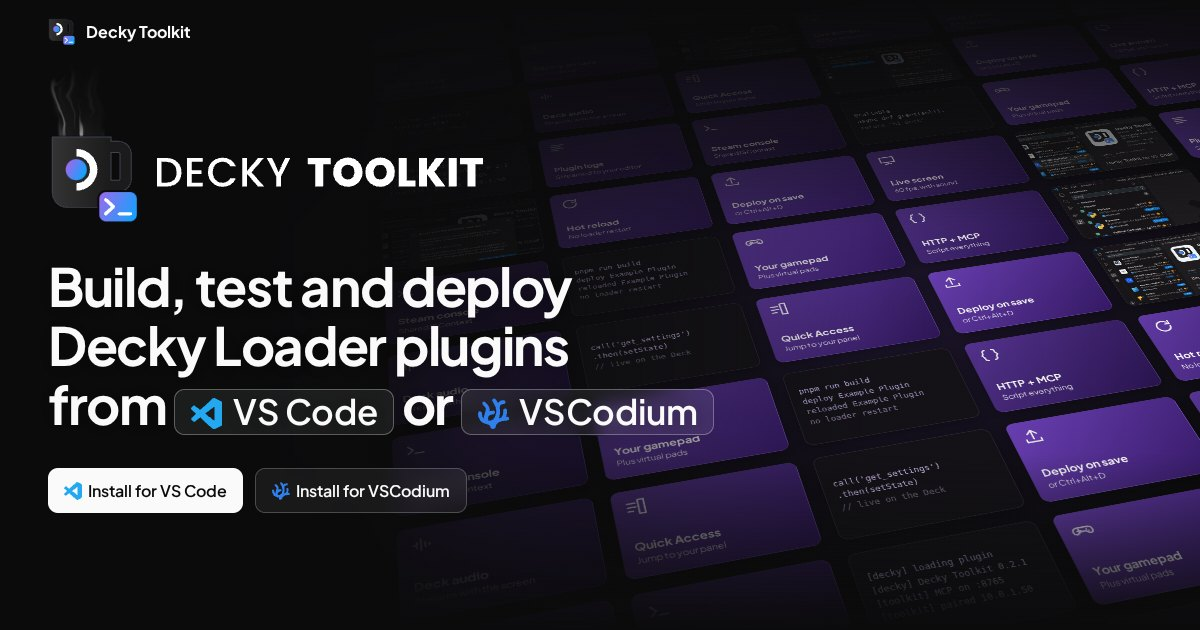
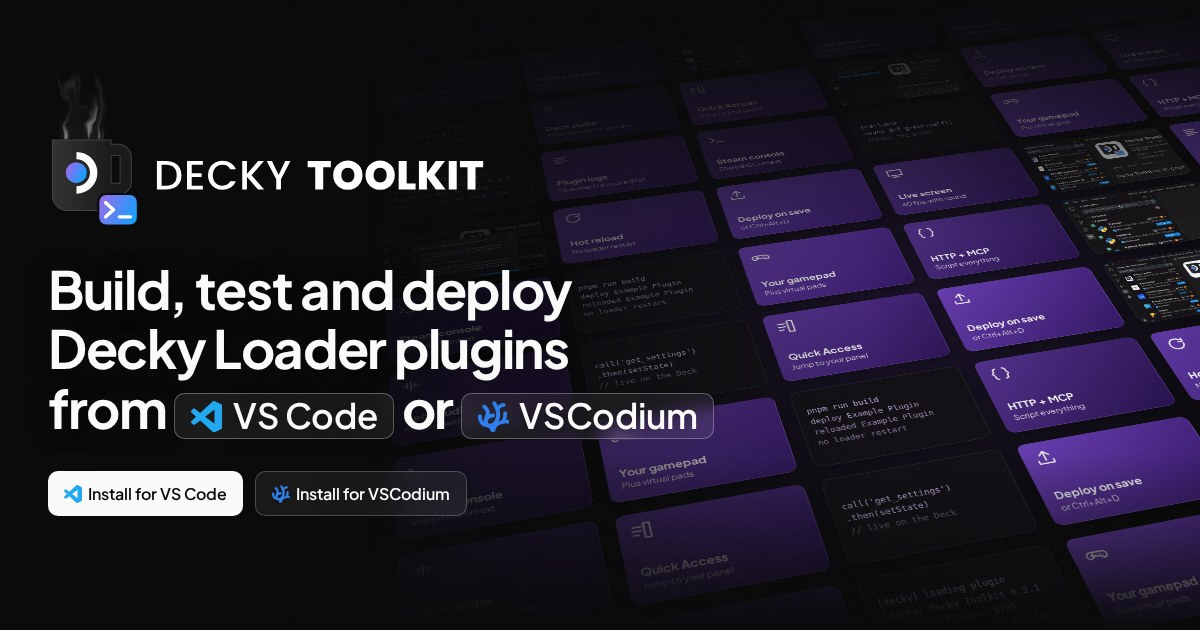
docs: regenerate the link-preview image without the header (#38)
og.jpg re-captured from the current hero without the header; scripts/og-image/capture.sh regenerates it.

diff --git a/CLAUDE.md b/CLAUDE.md
@@ -21,6 +21,8 @@ See README.md for setup and docs/reference.md for the tool list and architecture
   a device is done with the extension itself (it detects the root `plugin.json`); there are no ssh scripts.
 - `scripts/install-gif/record.sh` — re-records `docs/images/install/vscode-install.gif` (official VS Code under
   Xvfb driven by Playwright, installing the published extension); needs node, xvfb-run, ffmpeg.
+- `scripts/og-image/capture.sh` — re-captures `site/public/og.jpg` (the link-preview card) from the built homepage
+  hero at 1200x630; re-run after changing the hero.
 - `site/` — landing page and docs (Astro, base `/decky-toolkit`), deployed by `.github/workflows/pages.yml` next to
   `decky-toolkit.zip` and `update.json`. Colours only come from `site/src/styles/theme.css`; UI primitives are
   Starwind UI (`src/components/starwind`, Tailwind v4 without preflight); docs are Starlight pages in
